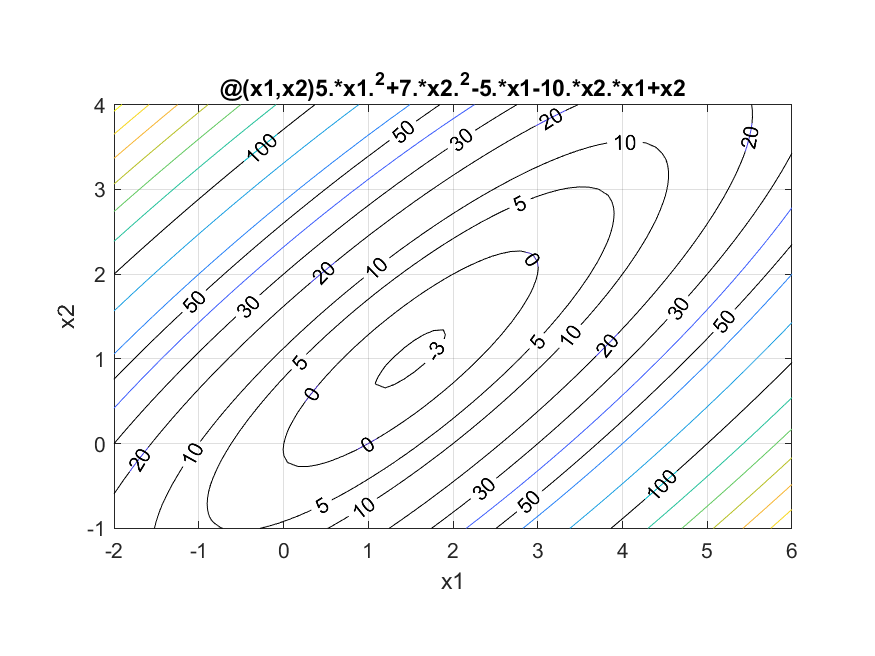
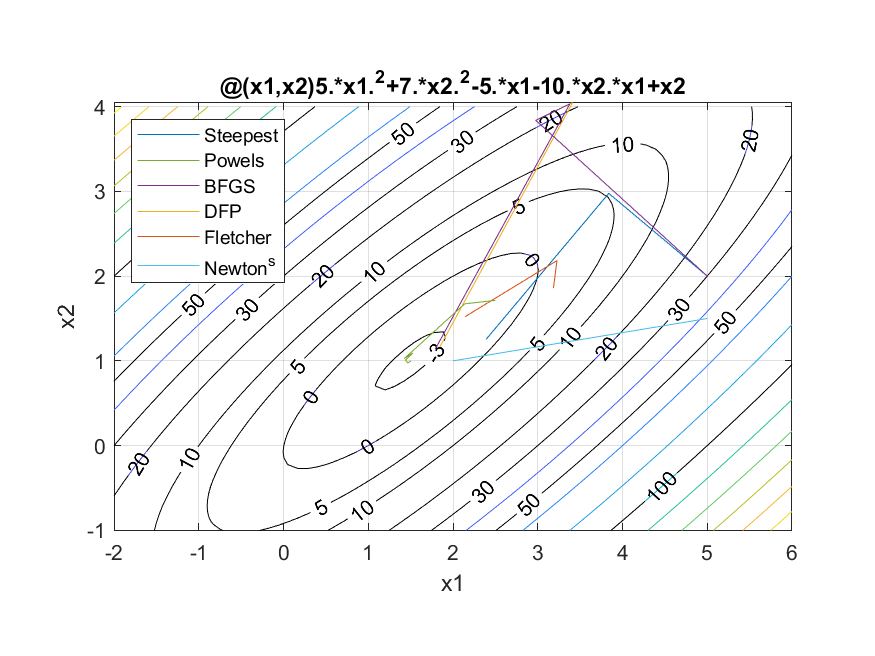
Newton Done (all done??)
Newtons is done, which means I think the whole project is done? i will wait to pull to master until I hand the thing in in person...

diff --git a/HomeWork3.m b/HomeWork3.m
@@ -26,7 +26,7 @@ ylabel x2
 c.LineColor = 'black';
 grid on
 axis equal
-saveas(1, 'HW3_contour.png');
+
 legend on
 % close(1);
 
@@ -172,11 +172,11 @@ HES = HES + D;
 Sn(:,j) = HES * double([subs(s1_EQ, [x1 x2],[xn(1,j), xn(2,j)]); subs(s2_EQ, [x1 x2],[xn(1,j), xn(2,j)])]);
 alph(:,j) = double(subs(alpha, [x01 x02 s1 s2], ...
         [xn(1,j+1), xn(2,j+1), Sn(1,j), Sn(2,j)]));
-xn(:,j+2) = xn(:,j+1) + alph(:,j) .* Sn(:,j)
+xn(:,j+2) = xn(:,j+1) + alph(:,j) .* Sn(:,j);
 
 
 end
-xn = xn.';
+xn = xn.'
 DFP = plot(xn(:,1),xn(:,2)); 
 
 
@@ -202,9 +202,10 @@ HES = HES + D;
 Sn(:,j) = HES * double([subs(s1_EQ, [x1 x2],[xn(1,j), xn(2,j)]); subs(s2_EQ, [x1 x2],[xn(1,j), xn(2,j)])]);
 alph(:,j) = double(subs(alpha, [x01 x02 s1 s2], ...
         [xn(1,j+1), xn(2,j+1), Sn(1,j), Sn(2,j)]));
-xn(:,j+2) = xn(:,j+1) + alph(:,j) .* Sn(:,j)
+xn(:,j+2) = xn(:,j+1) + alph(:,j) .* Sn(:,j);
 
 end
+xn
 BFGS = plot(xn(1,:),xn(2,:));
 
 
@@ -255,39 +256,44 @@ SAVESTATE;
 %%%%%%%%%%%%%%%%%%%%%%%%%%%%%%%% 3.8 %%%%%%%%%%%%%%%%%%%%%%%%%%%%%%%%%%%%%
 %% NEWTON
 
+DX = diff(mFsyms, x1);
+DY = diff(mFsyms, x2);
+DXX = diff(DX,x1);
+DXY = diff(DX,x2);
+DYY = diff(DY,x2);
+DYX = diff(DY,x1);
+H = [DXX,DXY;...
+    DYX,DYY];
 
+S = inv(H);
+delF = [DX; DY];
+x = 5;
+y = 2;
+loc = [x;y];
 
+for j = 1:3
+loc(:,j+1) = loc(:,j)- subs(S, [x1,x2],[loc(1,j),loc(2,j)]) *...
+            subs(delF,[x1,x2],[loc(1,j),loc(2,j)]);
 
-
-
-
-
-
-
-
-
-
-
-
-
-
-
-
+end
+loc
+NEWTON = plot(loc(:,1),loc(:,2));
 
 
 
 %%%%%%%%%%%%%%%%%%%%%%%%%%%%%%%% 3.8 %%%%%%%%%%%%%%%%%%%%%%%%%%%%%%%%%%%%%
 %% Graphing
 
-LVals = [StD, POW, BFGS, DFP, FRplt]; ... ,  , NEWTON
+LVals = [StD, POW, BFGS, DFP, FRplt, NEWTON]; ... ,  , 
 
 
-legend(LVals, 'Steepest', 'Powels', 'BFGS', 'DFP', 'Fletcher')
+legend("location", "northwest")
+legend(LVals, 'Steepest', 'Powels', 'BFGS', 'DFP', 'Fletcher', 'Newton^s')
 
 
 hold off
 
-
+saveas(1, 'HW3_contour.png');
 
 
 
